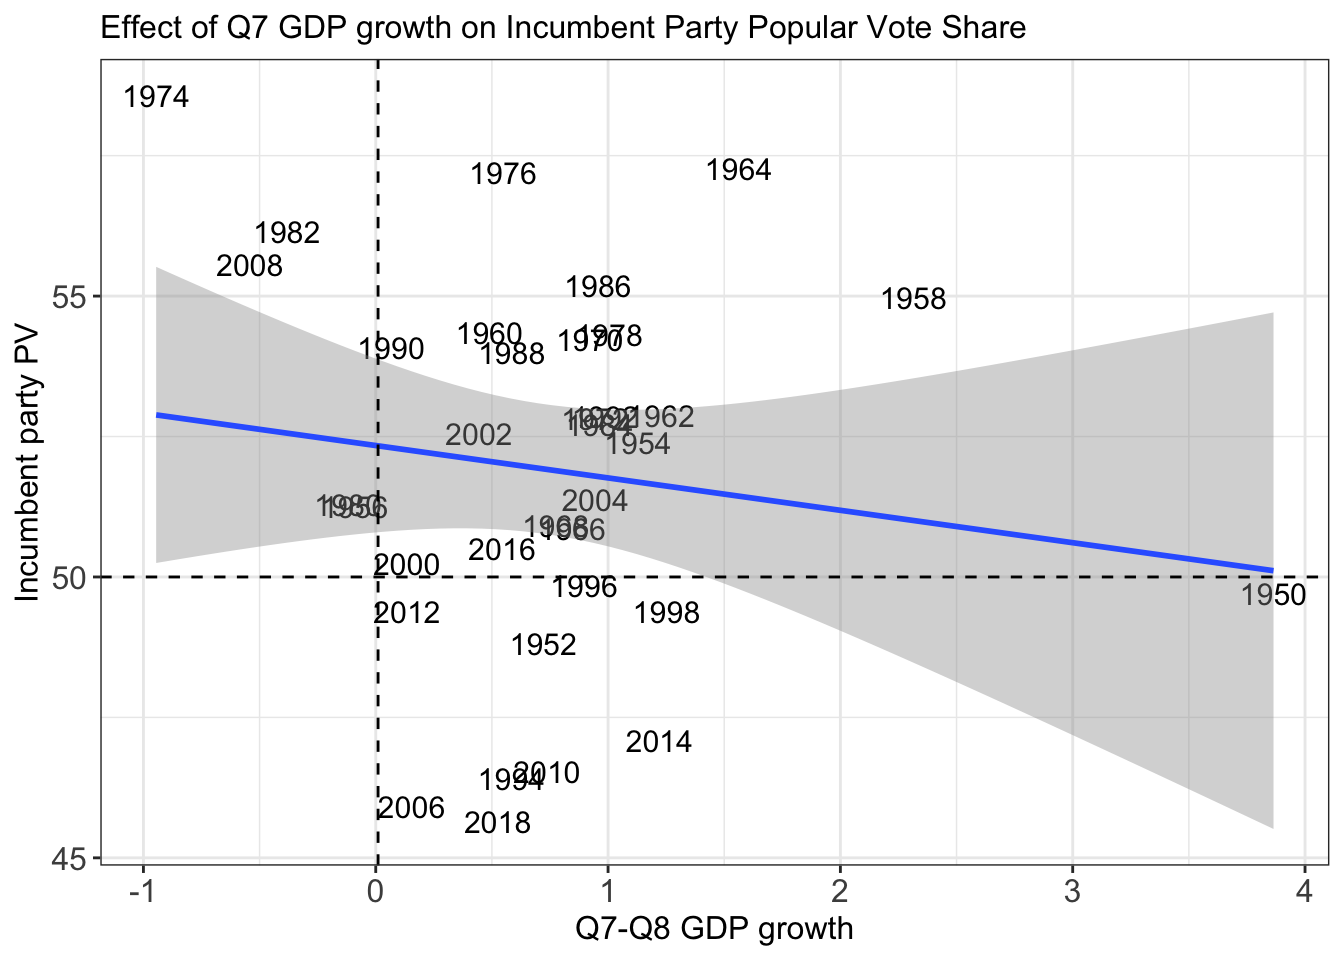
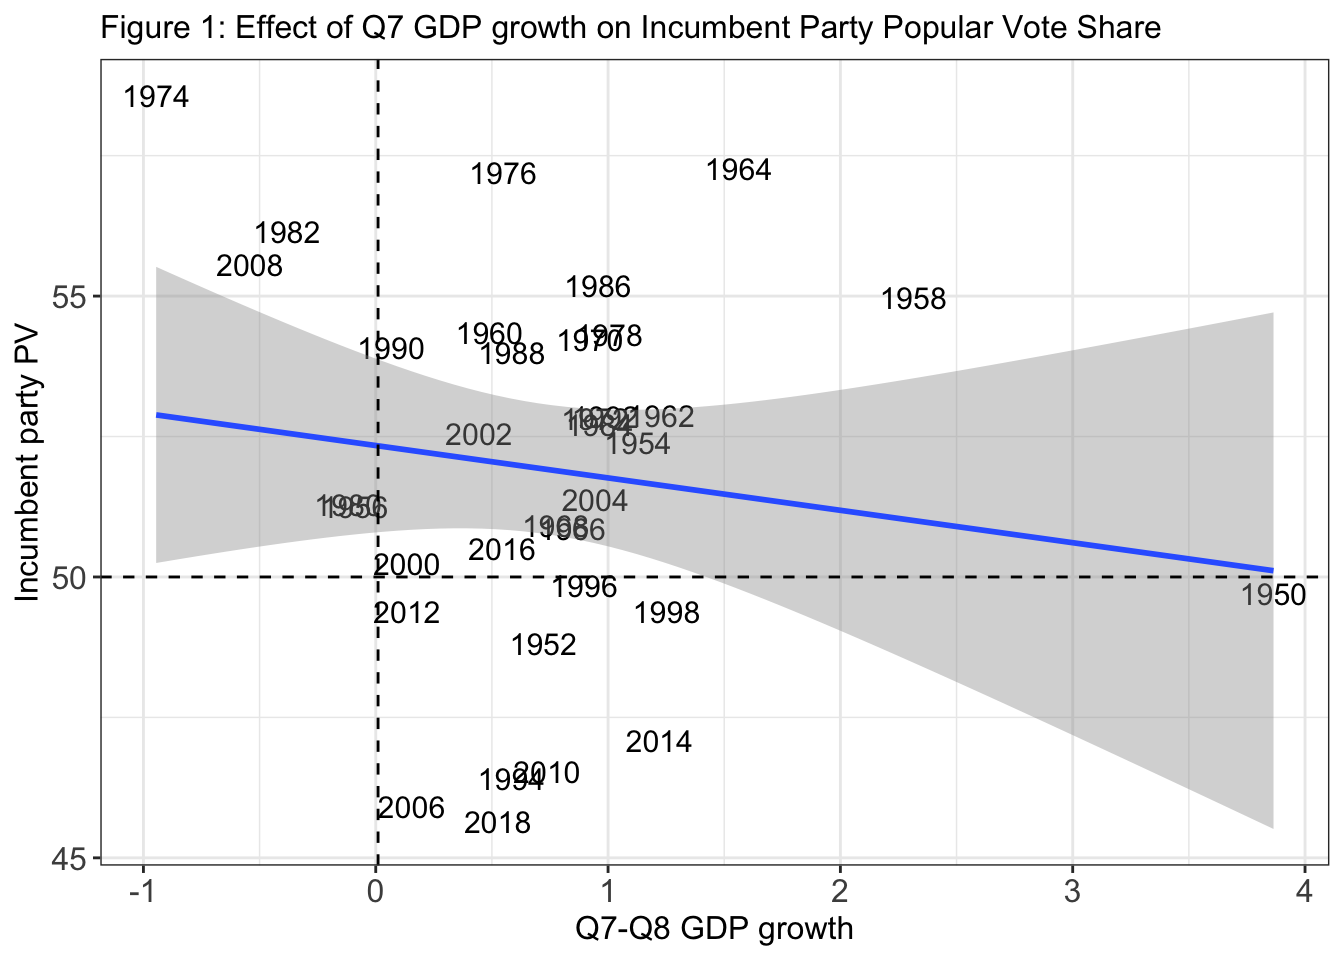
intro and description of fig 1 & 2

Changed region(s): [[0.0938, 0.0, 0.875, 0.0625]]

diff --git a/public/post/2022-09-18-blog-post-2/index.html b/public/post/2022-09-18-blog-post-2/index.html
@@ -65,8 +65,16 @@
 
 
 <p>Welcome to my 2022 Midterm blog series. I’m Kaela Ellis, a junior at Harvard College studying Government. This semester I am taking Gov 1347: Election Analytics taught by Professor Ryan Enos, which has led to the creation of this blog. I will use this blog series to predict the 2022 Midterm election. The series will be updated weekly with new predictive measures and analyses of past elections.</p>
+<p>##Introduction</p>
+<p>This second blog post examines the question of the effect of fundamentals in House elections. In particular, I look to see how the GDP growth affects the predictivity of the popular vote versus the seat share. I predict that the GDP growth will have a more detectable effect on the popular vote than on the seat share. This prediction is informed by the fact that, in a popular vote, voters can directly vote based on whether or not economic conditions are favorable, so the popular vote might be reflective of GDP growth. Meanwhile, the resulting seat share of these votes can be muddled by things like gerrymandering and improper popular vote to seat ratios.</p>
+<p>In investigating the effect of GDP growth on popular vote versus seat share, I choose to only look at the 7th quarter- the last complete quarter before people vote. This decision was largely informed from literature by Healy and Lenz. In their article “Substituting the End for the Whole: Why Voters Respond Primarily to the Election-Year Economy” they explain that when voters evaluate actual economic growth they place roughly 80% more weight on Year 4 than on Year 2 of a presidential term. Thus, the most recent economic conditions are better predictive indicators for how people will vote.</p>
+<p>I also chose to focus on how the GDP growth is linked to the vote share or seat share of the incumbent party. This decision was informed by “Democracy for Realists” by Achen and Bartels. They outline the retrospective voting theory where voters with limited information can choose candidates based on changes in their welfare. Under the sanctioning model, each voter’s well-being depends on the effort expended by the incumbent leader on their behalf. So, if a voter’s welfare has decreased, voters can hold the incumbent accountable by not reelecting them. Under the assumption that GDP growth is linked to voters’ well-being, GDP growth will affect the vote share, as voters attempt to hold incumbents accountable and prospectively forecast their future well-being under their leadership.</p>
+<p>##Effect of Q7 GDP Growth</p>
 <p><img src="http://example.org/post/2022-09-18-blog-post-2/index_files/figure-html/unnamed-chunk-1-1.png" width="672" /></p>
-<p><img src="http://example.org/post/2022-09-18-blog-post-2/index_files/figure-html/unnamed-chunk-2-1.png" width="672" /></p>
+<p><img src="http://example.org/post/2022-09-18-blog-post-2/index_files/figure-html/unnamed-chunk-2-1.png" width="672" />
+The first graphic shows the effect of 7th quarter GDP growth on the incumbent party’s popular vote share. Surprisingly, this graph demonstrates that as GDP growth increases, the incumbent party popular vote share decreases. This indirect relationship is counterintuitive because I assumed that as GDP growth increases, the incumbent party popular vote also increases, which is not reflected in the plot. These variables should have a direct relationship. This counterintuitive result is likely due to 7th quarter GDP growth being a poor indicator of economic conditions.</p>
+<p>Taking a look at Figure 2, which shows the effect of 7th quarter GDP growth on the incumbent party’s house seat share, we see the same counterintuitive relationship. In future evaluations of the economy, I must keep in mind that 7th quarter GDP growth may not be the best indicator of economic conditions.</p>
+<p>The 7th quarter GDP growth has an indirect relationship with both the popular vote and seat share. One difference between these two variables is that, in terms of popular vote, the incumbent party tends to maintain a majority, whereas, in terms of seat share, the incumbent party tends to lose seats to the extent that they lose the majority.</p>
 <p><img src="http://example.org/post/2022-09-18-blog-post-2/index_files/figure-html/unnamed-chunk-3-1.png" width="672" /></p>
 <p><img src="http://example.org/post/2022-09-18-blog-post-2/index_files/figure-html/unnamed-chunk-4-1.png" width="672" /></p>
 <p><img src="http://example.org/post/2022-09-18-blog-post-2/index_files/figure-html/unnamed-chunk-5-1.png" width="672" />
@@ -87,7 +95,7 @@
         		<footer>
 			
 			<span>
-			&copy; <time datetime="2022-09-19 02:52:36.327164 -0400 EDT m=&#43;0.090250209">2022</time> . Made with <a href='https://gohugo.io'>Hugo</a> using the <a href='https://github.com/EmielH/tale-hugo/'>Tale</a> theme.
+			&copy; <time datetime="2022-09-19 13:35:41.7147 -0400 EDT m=&#43;0.085769084">2022</time> . Made with <a href='https://gohugo.io'>Hugo</a> using the <a href='https://github.com/EmielH/tale-hugo/'>Tale</a> theme.
 			</span>
 		</footer>
 

diff --git a/content/post/2022-09-18-blog-post-2/index.html b/content/post/2022-09-18-blog-post-2/index.html
@@ -10,8 +10,16 @@ tags: []
 
 
 <p>Welcome to my 2022 Midterm blog series. I’m Kaela Ellis, a junior at Harvard College studying Government. This semester I am taking Gov 1347: Election Analytics taught by Professor Ryan Enos, which has led to the creation of this blog. I will use this blog series to predict the 2022 Midterm election. The series will be updated weekly with new predictive measures and analyses of past elections.</p>
+<p>##Introduction</p>
+<p>This second blog post examines the question of the effect of fundamentals in House elections. In particular, I look to see how the GDP growth affects the predictivity of the popular vote versus the seat share. I predict that the GDP growth will have a more detectable effect on the popular vote than on the seat share. This prediction is informed by the fact that, in a popular vote, voters can directly vote based on whether or not economic conditions are favorable, so the popular vote might be reflective of GDP growth. Meanwhile, the resulting seat share of these votes can be muddled by things like gerrymandering and improper popular vote to seat ratios.</p>
+<p>In investigating the effect of GDP growth on popular vote versus seat share, I choose to only look at the 7th quarter- the last complete quarter before people vote. This decision was largely informed from literature by Healy and Lenz. In their article “Substituting the End for the Whole: Why Voters Respond Primarily to the Election-Year Economy” they explain that when voters evaluate actual economic growth they place roughly 80% more weight on Year 4 than on Year 2 of a presidential term. Thus, the most recent economic conditions are better predictive indicators for how people will vote.</p>
+<p>I also chose to focus on how the GDP growth is linked to the vote share or seat share of the incumbent party. This decision was informed by “Democracy for Realists” by Achen and Bartels. They outline the retrospective voting theory where voters with limited information can choose candidates based on changes in their welfare. Under the sanctioning model, each voter’s well-being depends on the effort expended by the incumbent leader on their behalf. So, if a voter’s welfare has decreased, voters can hold the incumbent accountable by not reelecting them. Under the assumption that GDP growth is linked to voters’ well-being, GDP growth will affect the vote share, as voters attempt to hold incumbents accountable and prospectively forecast their future well-being under their leadership.</p>
+<p>##Effect of Q7 GDP Growth</p>
 <p><img src="{{< blogdown/postref >}}index_files/figure-html/unnamed-chunk-1-1.png" width="672" /></p>
-<p><img src="{{< blogdown/postref >}}index_files/figure-html/unnamed-chunk-2-1.png" width="672" /></p>
+<p><img src="{{< blogdown/postref >}}index_files/figure-html/unnamed-chunk-2-1.png" width="672" />
+The first graphic shows the effect of 7th quarter GDP growth on the incumbent party’s popular vote share. Surprisingly, this graph demonstrates that as GDP growth increases, the incumbent party popular vote share decreases. This indirect relationship is counterintuitive because I assumed that as GDP growth increases, the incumbent party popular vote also increases, which is not reflected in the plot. These variables should have a direct relationship. This counterintuitive result is likely due to 7th quarter GDP growth being a poor indicator of economic conditions.</p>
+<p>Taking a look at Figure 2, which shows the effect of 7th quarter GDP growth on the incumbent party’s house seat share, we see the same counterintuitive relationship. In future evaluations of the economy, I must keep in mind that 7th quarter GDP growth may not be the best indicator of economic conditions.</p>
+<p>The 7th quarter GDP growth has an indirect relationship with both the popular vote and seat share. One difference between these two variables is that, in terms of popular vote, the incumbent party tends to maintain a majority, whereas, in terms of seat share, the incumbent party tends to lose seats to the extent that they lose the majority.</p>
 <p><img src="{{< blogdown/postref >}}index_files/figure-html/unnamed-chunk-3-1.png" width="672" /></p>
 <p><img src="{{< blogdown/postref >}}index_files/figure-html/unnamed-chunk-4-1.png" width="672" /></p>
 <p><img src="{{< blogdown/postref >}}index_files/figure-html/unnamed-chunk-5-1.png" width="672" />

diff --git a/public/index.html b/public/index.html
@@ -60,7 +60,8 @@
 
         <p>
             Welcome to my 2022 Midterm blog series. I’m Kaela Ellis, a junior at Harvard College studying Government. This semester I am taking Gov 1347: Election Analytics taught by Professor Ryan Enos, which has led to the creation of this blog. I will use this blog series to predict the 2022 Midterm election. The series will be updated weekly with new predictive measures and analyses of past elections.
-```
+##Introduction
+This second blog post examines the question of the effect of fundamentals in House elections.
         </p>
     </div>
 </a>
@@ -95,7 +96,7 @@ This first blog post examines the question of gerrymandering in the 2020 House e
         		<footer>
 			
 			<span>
-			&copy; <time datetime="2022-09-19 02:52:36.327313 -0400 EDT m=&#43;0.090398959">2022</time> . Made with <a href='https://gohugo.io'>Hugo</a> using the <a href='https://github.com/EmielH/tale-hugo/'>Tale</a> theme.
+			&copy; <time datetime="2022-09-19 13:35:41.715186 -0400 EDT m=&#43;0.086255126">2022</time> . Made with <a href='https://gohugo.io'>Hugo</a> using the <a href='https://github.com/EmielH/tale-hugo/'>Tale</a> theme.
 			</span>
 		</footer>
 

diff --git a/public/post/index.html b/public/post/index.html
@@ -55,7 +55,8 @@
 
         <p>
             Welcome to my 2022 Midterm blog series. I’m Kaela Ellis, a junior at Harvard College studying Government. This semester I am taking Gov 1347: Election Analytics taught by Professor Ryan Enos, which has led to the creation of this blog. I will use this blog series to predict the 2022 Midterm election. The series will be updated weekly with new predictive measures and analyses of past elections.
-```
+##Introduction
+This second blog post examines the question of the effect of fundamentals in House elections.
         </p>
     </div>
 </a>
@@ -90,7 +91,7 @@ This first blog post examines the question of gerrymandering in the 2020 House e
         		<footer>
 			
 			<span>
-			&copy; <time datetime="2022-09-19 02:52:36.32734 -0400 EDT m=&#43;0.090426084">2022</time> . Made with <a href='https://gohugo.io'>Hugo</a> using the <a href='https://github.com/EmielH/tale-hugo/'>Tale</a> theme.
+			&copy; <time datetime="2022-09-19 13:35:41.715244 -0400 EDT m=&#43;0.086313084">2022</time> . Made with <a href='https://gohugo.io'>Hugo</a> using the <a href='https://github.com/EmielH/tale-hugo/'>Tale</a> theme.
 			</span>
 		</footer>
 

diff --git a/public/post/2022-09-16-blog-post-1/index.html b/public/post/2022-09-16-blog-post-1/index.html
@@ -97,7 +97,7 @@ This plot highlights the states with the largest discrepancies between their nat
         		<footer>
 			
 			<span>
-			&copy; <time datetime="2022-09-19 02:52:36.327044 -0400 EDT m=&#43;0.090129626">2022</time> . Made with <a href='https://gohugo.io'>Hugo</a> using the <a href='https://github.com/EmielH/tale-hugo/'>Tale</a> theme.
+			&copy; <time datetime="2022-09-19 13:35:41.714737 -0400 EDT m=&#43;0.085805542">2022</time> . Made with <a href='https://gohugo.io'>Hugo</a> using the <a href='https://github.com/EmielH/tale-hugo/'>Tale</a> theme.
 			</span>
 		</footer>
 

diff --git a/public/categories/index.html b/public/categories/index.html
@@ -57,7 +57,7 @@
         		<footer>
 			
 			<span>
-			&copy; <time datetime="2022-09-19 02:52:36.322361 -0400 EDT m=&#43;0.085446251">2022</time> . Made with <a href='https://gohugo.io'>Hugo</a> using the <a href='https://github.com/EmielH/tale-hugo/'>Tale</a> theme.
+			&copy; <time datetime="2022-09-19 13:35:41.710502 -0400 EDT m=&#43;0.081570792">2022</time> . Made with <a href='https://gohugo.io'>Hugo</a> using the <a href='https://github.com/EmielH/tale-hugo/'>Tale</a> theme.
 			</span>
 		</footer>
 

diff --git a/public/tags/index.html b/public/tags/index.html
@@ -57,7 +57,7 @@
         		<footer>
 			
 			<span>
-			&copy; <time datetime="2022-09-19 02:52:36.321578 -0400 EDT m=&#43;0.084663292">2022</time> . Made with <a href='https://gohugo.io'>Hugo</a> using the <a href='https://github.com/EmielH/tale-hugo/'>Tale</a> theme.
+			&copy; <time datetime="2022-09-19 13:35:41.710503 -0400 EDT m=&#43;0.081572209">2022</time> . Made with <a href='https://gohugo.io'>Hugo</a> using the <a href='https://github.com/EmielH/tale-hugo/'>Tale</a> theme.
 			</span>
 		</footer>
 
